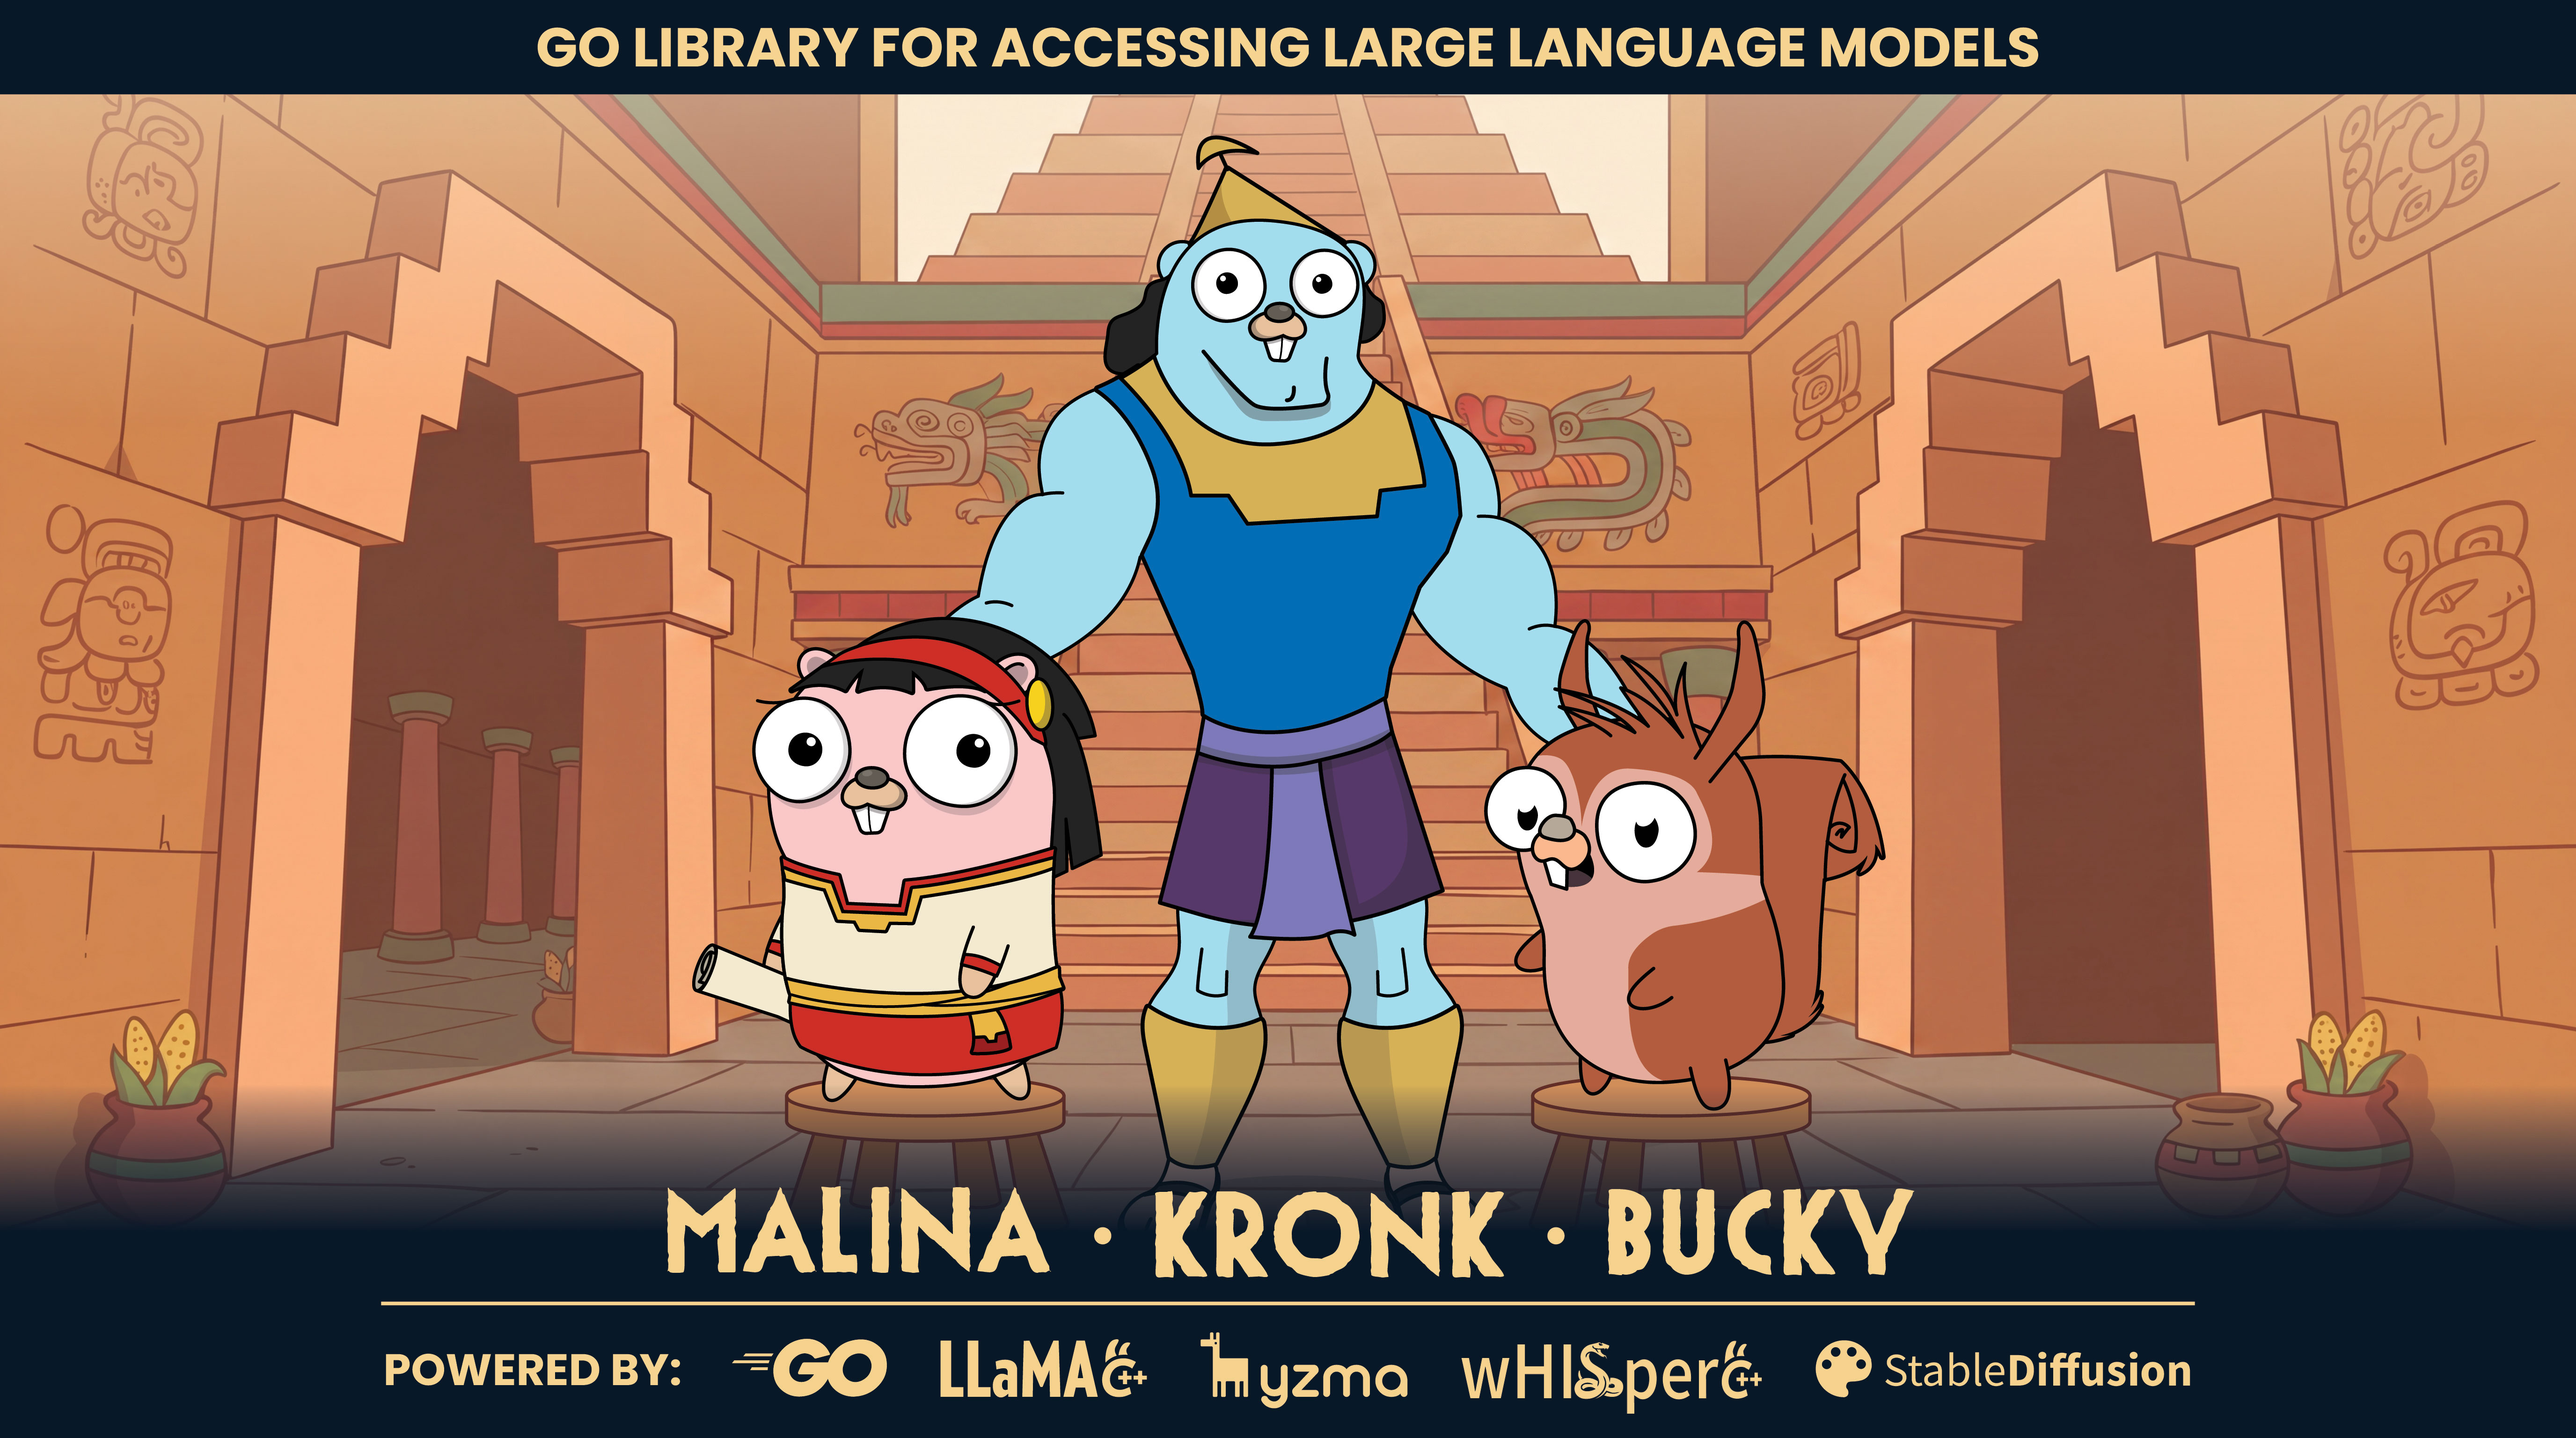
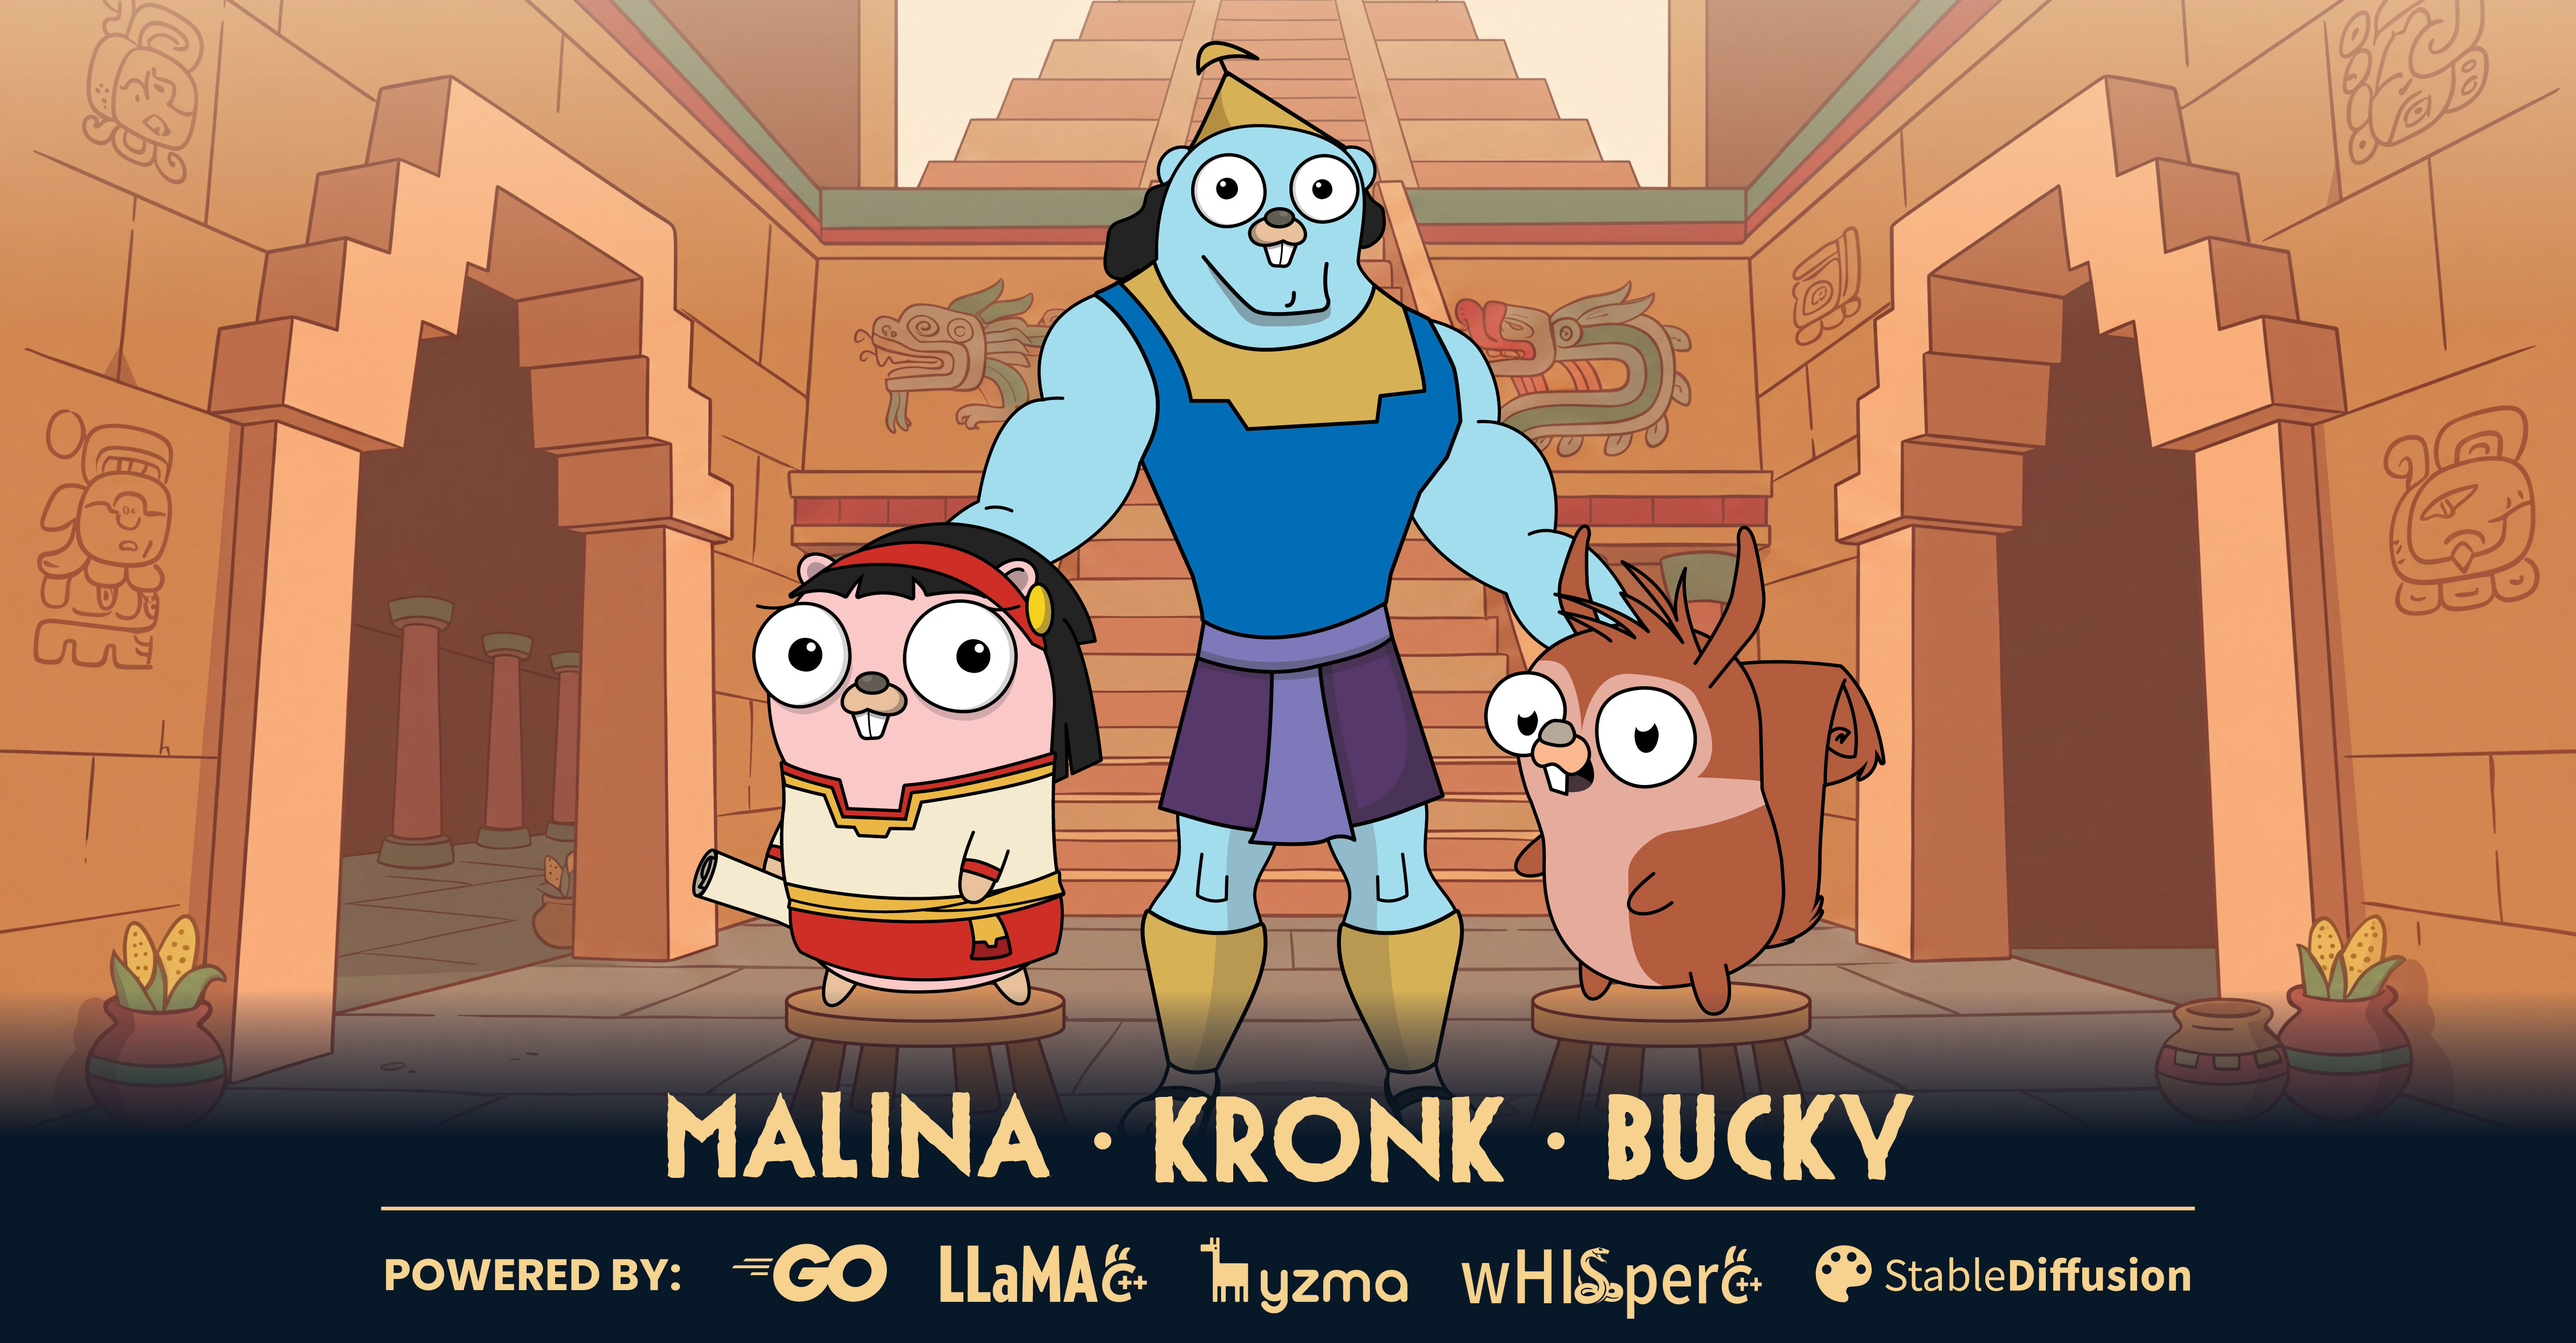
minor site changes

diff --git a/src/components/Hero.tsx b/src/components/Hero.tsx
@@ -2,11 +2,10 @@ import { Link } from "react-router-dom";
 import { motion } from "framer-motion";
 import { AudioLines, BookOpen, Github, Image, Rocket } from "lucide-react";
 import { KronkBanner } from "@/components/KronkBanner";
-import { assetPath } from "@/lib/utils";
 
 export const Hero = () => {
   return (
-    <section className="relative flex items-center justify-center overflow-hidden pt-16 pb-12">
+    <section className="relative flex items-center justify-center overflow-hidden pt-16">
       {/* Animated blurred blobs - color cycling effect */}
       <div className="hero-blobs absolute inset-0 scale-50 lg:scale-100 opacity-50">
         <div className="hero-blob hero-blob-1" />
@@ -15,45 +14,39 @@ export const Hero = () => {
         <div className="hero-blob hero-blob-4" />
       </div>
 
-      <div className="container relative z-10 mx-auto px-6 py-6 text-center">
+      <div className="container relative z-10 mx-auto h-[calc(100svh-4rem)] min-h-[36rem] px-6 py-4 text-center">
         <motion.div
           initial={{ opacity: 0, y: 20 }}
           animate={{ opacity: 1, y: 0 }}
           transition={{ duration: 0.6 }}
+          className="flex h-full flex-col items-center gap-6"
         >
           
-          <h1 className="mb-6 flex items-center justify-center gap-4 text-5xl font-black tracking-tight sm:text-6xl lg:text-7xl">
-            <a
-              href="https://www.ardanlabs.com/"
-              target="_blank"
-              rel="noopener noreferrer"
-              className="shrink-0"
-              aria-label="Ardan Labs"
-            >
-              <img
-                src={assetPath("images/ardan-labs-badge.svg")}
-                alt="Ardan Labs"
-                className="h-16 w-auto sm:h-20 lg:h-24"
-              />
-            </a>
+          <h1 className="shrink-0 text-5xl font-black tracking-tight sm:text-6xl lg:text-7xl">
             <span className="text-gradient-primary">Kronk</span>
           </h1>
-          
-          <KronkBanner />
-          <p className="mx-auto mb-3 font-bold text-xl leading-relaxed text-foreground sm:text-2xl">
-            Go With Your Own Intelligence!
+          <p className="mx-auto shrink-0 font-bold text-lg leading-snug text-foreground sm:text-2xl">
+            Everything you need to run LLMs locally in Go with production-grade performance.
           </p>
-          <p className="mx-auto mb-10 max-w-2xl text-base leading-relaxed text-muted-foreground">
-            Use Go for hardware accelerated local inference with llama.cpp, whisper.cpp, and stable-diffusion.cpp directly integrated into your Go applications. Kronk provides a high-level API and production ready model server.
-          </p>
-        </motion.div>
 
         <motion.div
           initial={{ opacity: 0 }}
           animate={{ opacity: 1 }}
           transition={{ duration: 0.6, delay: 0.4 }}
-          className="mt-8 flex flex-wrap items-center justify-center gap-4"
+          className="flex shrink-0 flex-wrap items-center justify-center gap-2 [&>a]:px-3 [&>a]:py-2 sm:gap-3 sm:[&>a]:px-6 sm:[&>a]:py-3"
         >
+          <a
+            href="#features"
+            className="inline-flex items-center gap-2 rounded-lg border border-border px-6 py-3 text-sm font-semibold text-foreground transition-colors hover:border-primary/50 hover:text-primary"
+          >
+            Learn More
+          </a>
+          <a
+            href="#install"
+            className="inline-flex items-center gap-2 rounded-lg border border-border px-6 py-3 text-sm font-semibold text-foreground transition-colors hover:border-primary/50 hover:text-primary"
+          >
+            Install
+          </a>
           <a
             href="https://github.com/ardanlabs/kronk"
             target="_blank"
@@ -91,6 +84,14 @@ export const Hero = () => {
             <Rocket className="h-4 w-4" />
             Showcase
           </Link>
+        </motion.div>
+          <KronkBanner />
+          <p className="mx-auto shrink-0 font-bold text-xl leading-snug text-foreground sm:text-2xl">
+            Go With Your Own Intelligence!
+          </p>
+          <p className="mx-auto max-w-3xl shrink-0 text-sm leading-relaxed text-muted-foreground sm:text-base">
+            Use Go for hardware accelerated local inference with llama.cpp, whisper.cpp, and stable-diffusion.cpp directly integrated into your Go applications. Kronk provides a high-level API and production ready model server.
+          </p>
         </motion.div>
       </div>
     </section>

diff --git a/src/components/Features.tsx b/src/components/Features.tsx
@@ -78,9 +78,6 @@ export const Features = () => {
           <h2 className="mb-4 text-3xl font-bold tracking-tight sm:text-4xl">
             Why <span className="text-gradient-primary">Kronk</span>?
           </h2>
-          <p className="mx-auto mb-4 font-bold text-lg leading-relaxed text-foreground sm:text-2xl">
-            Everything you need to run LLMs locally in Go with production-grade performance.
-          </p>
           <div className="grid grid-cols-1 lg:grid-cols-2 gap-4 lg:gap-6 text-left w-full lg:w-[90%] mx-auto">
             <p className="mx-auto text-muted-foreground leading-relaxed">
               This project lets you use Go for hardware accelerated local inference with llama.cpp and whisper.cpp directly integrated into your Go applications. Kronk provides a high-level API that feels similar to using an OpenAI compatible API.

diff --git a/src/components/KronkBanner.tsx b/src/components/KronkBanner.tsx
@@ -1,9 +1,9 @@
 export const KronkBanner = () => (
-  <div className="kronk-banner mx-auto mb-4 max-w-4xl w-full rounded-xl shadow-lg">
+  <div className="kronk-banner mx-auto flex min-h-0 max-h-[min(467px,calc((100vw-3rem)*0.5216))] w-full max-w-4xl flex-1 items-center justify-center">
     <img
       src="/images/kronk-hero-banner.jpg"
-      alt="Kronk — Go Library for Accessing Large Language Models, powered by Go, LLaMA C++, yzma, and whisper.cpp"
-      className="w-full rounded-lg shadow-lg"
+      alt="Malina, Kronk, and Bucky, powered by Go, LLaMA C++, yzma, whisper.cpp, and Stable Diffusion"
+      className="max-h-full max-w-full rounded-lg object-contain shadow-lg"
     />
   </div>
 );
